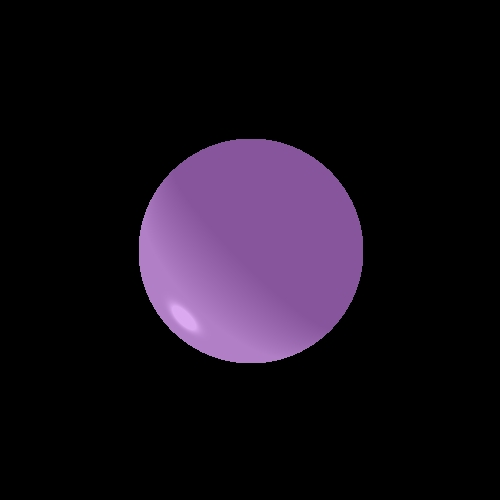
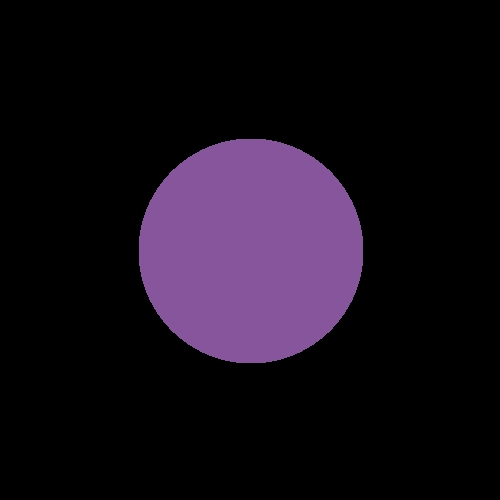
Implemented Shadow Rays and fixed a huge bug where things not directly between a light and the camera wouldn't get lit even if they were supposed to

Changed region(s): [[0.27, 0.39, 0.6, 0.75]]

diff --git a/src/renderer/Render.java b/src/renderer/Render.java
@@ -156,63 +156,62 @@ public class Render {
 		int totalRed = ambientLight.getRed() + emissionLight.getRed();
 		int totalGreen = ambientLight.getGreen() + emissionLight.getGreen();
 		int totalBlue = ambientLight.getBlue() + emissionLight.getBlue();
-//		if(numberOfLights != 0) {
-			
-			//Values to hold the light that's been diffused
-			int diffusedLightRed = 0;
-			int diffusedLightBlue = 0;
-			int diffusedLightGreen = 0;
-			
-			//Values to hold the specular light
-			int specularLightRed = 0;
-			int specularLightBlue = 0;
-			int specularLightGreen = 0;
 
+		//Gets a list of all the lights in the place
+		Iterator<LightSource> lights = _scene.getLightsIterator();
 
-			//Gets a list of all the lights in the place
-			Iterator<LightSource> lights = _scene.getLightsIterator();
+		while(lights.hasNext()) {
+			LightSource light = lights.next();
 
-			while(lights.hasNext()) {
-				LightSource light = lights.next();
+			//Check to make sure the reflected light would actually make it to the camera (It's not on the other side of the Geometry)
+			if(Math.signum(light.getL(point).dotProduct(geometry.getNormal(point))) != Math.signum(new Vector(_scene.getCamera().getP0().subtract(point)).dotProduct(geometry.getNormal(point)))) {
+				//Checks to see if the point would even get hit by the LightSource (ie that it isn't in the shadow of something else)
+				//Creates a new Ray starting at the point in question with a direction opposite the L from the light to the point (going back to the light)
+				Ray rayBackToLight = new Ray(point, new Vector(light.getL(point)).scale(-1).normalize());
+				//Adjusts its source a little bit so a geometry doesn't block itself (sliding it up the vector a little closer to the light)
+				rayBackToLight.setSource(rayBackToLight.getSource().add(rayBackToLight.getDirection().scale(.0000001)));
+				//Checks to see if there's any other geometry along the path
+				Map<Geometry, List<Point3D>> geometriesBlockingLight = getSceneRayIntersections(rayBackToLight);
 
-				//Check to make sure the reflected light would actually make it to the camera (It's not on the other side of the Geometry)
-				if(Math.signum(light.getL(point).dotProduct(geometry.getNormal(point))) == Math.signum(new Vector(_scene.getCamera().getP0().subtract(point)).dotProduct(geometry.getNormal(point)))) {
+				if(geometriesBlockingLight.isEmpty()) {
 					//Calculates the diffused light generated by this light source
-					Color calculatedDiffusedLight = calcDiffuseComp(geometry.getMaterial().getKd(), geometry.getNormal(point).normalize(), light.getL(point).normalize(), light.getIntensity(point));
+					Color calculatedDiffusedLight = calcDiffuseComp(geometry.getMaterial().getKd(), geometry.getNormal(point), light.getL(point), light.getIntensity(point));
 					//Adds the new diffused light to the Color holding all the light so far, but scales it down so as not to go past the bounds of color values
 					totalRed += calculatedDiffusedLight.getRed()/2;
 					totalGreen += calculatedDiffusedLight.getGreen()/2;
 					totalBlue += calculatedDiffusedLight.getBlue()/2;
 
 					//Calculates the diffused light generated by this light source
-					Color calculatedSpecularLight = calcSpecularComp(geometry.getMaterial().getKs(), new Vector(_scene.getCamera().getP0().subtract(point)).normalize(), geometry.getNormal(point).normalize(), light.getL(point).normalize(), geometry.getMaterial().getShininess(), light.getIntensity(point));
+					Color calculatedSpecularLight = calcSpecularComp(geometry.getMaterial().getKs(), new Vector(_scene.getCamera().getP0().subtract(point)), geometry.getNormal(point), light.getL(point), geometry.getMaterial().getShininess(), light.getIntensity(point));
 					//Adds the new diffused light to the Color holding all the light so far, but scales it down so as not to go past the bounds of color values
 					totalRed += calculatedSpecularLight.getRed()/2;
 					totalGreen += calculatedSpecularLight.getGreen()/2;
 					totalBlue += calculatedSpecularLight.getBlue()/2;
+
+//					if(geometry instanceof Sphere) {
+//						print(geometry.getClass() + " Red: " + calculatedSpecularLight.getRed() + " Green: " + calculatedSpecularLight.getGreen() + " Blue: " + calculatedSpecularLight.getBlue());
+//					}
 				}
-
 			}
-			//Finds the color of the components of the light thats been diffused and bounces off specularly
-//			Color diffusedLight = new Color(diffusedLightRed/numberOfLights, diffusedLightBlue/numberOfLights, diffusedLightGreen/numberOfLights);
-//			Color specularLight = new Color(specularLightRed/numberOfLights, specularLightBlue/numberOfLights, specularLightGreen/numberOfLights);
 
-			//Combines them into a new color
-			Color combinedColor = new Color((totalRed/(numberOfLights+2)), (totalGreen/(numberOfLights+2)), (totalBlue/(numberOfLights+2)));
+		}
 
-			return combinedColor;
+		//Combines them into a new color
+		Color combinedColor = new Color((totalRed/(numberOfLights+2)), (totalGreen/(numberOfLights+2)), (totalBlue/(numberOfLights+2)));
+
+		return combinedColor;
 	}
 	
 	// private method to calculate the diffuse light (according to the formula from slides)
 	private Color calcDiffuseComp(Double kd, Vector normal, Vector l, Color intensity) {
-		double factor = kd*(normal.dotProduct(l));
+		double factor = Math.abs(kd*(normal.dotProduct(l)));
 		return scaleColor(intensity, factor);
 	}
 	
 	// private method to calculate the specular light (according to the formula from slides)
 	private Color calcSpecularComp(Double ks, Vector v, Vector normal, Vector l, int shininess, Color intensity) {
 		Vector r = l.subtract(normal.scale(2*l.dotProduct(normal)));
-		double factor = ks*Math.pow(v.normalize().dotProduct(r.normalize()), shininess);
+		double factor = ks*Math.abs(Math.pow(v.normalize().dotProduct(r.normalize()), shininess));
 		return scaleColor(intensity, factor);
 	}
 	
@@ -226,5 +225,9 @@ public class Render {
 		newBlue = (newBlue >= 0 ? newBlue : 0);
 		
 		return new Color(newRed, newGreen, newBlue);
+	}
+
+	public static void print(String s) {
+		System.out.println(s);
 	}
 }

diff --git a/src/unitTests/RenderTests.java b/src/unitTests/RenderTests.java
@@ -60,7 +60,7 @@ public class RenderTests {
 		//Creates a scene to hold our universe
 		Scene scene = new Scene("TestScene", new Color(0, 0, 0), ambientLight, lights, list, camera, 30.0);
 		//Creates an ImageWriter instance to help write down what our camera sees
-		ImageWriter imageWriter = new ImageWriter("RenderTestWithEmissionAndSpotlightRefectoredTest", 500, 500, 100, 100);
+		ImageWriter imageWriter = new ImageWriter("RenderTestWithEmissionAndSpotlightRefectoredTest2", 500, 500, 100, 100);
 		//Creates a Render instance to pull it all together
 		Render render = new Render(scene, imageWriter);
 		
@@ -88,7 +88,7 @@ public class RenderTests {
 		//Sets up an empty list of lights
 		List<LightSource> lights = new ArrayList<LightSource>();
 		//Creates a spotlight to add to our scene
-		SpotLight spotLight = new SpotLight(new Point3D(25,25,-2), new Vector(-1,-1,-1.5), new Color(255,255,255));
+		SpotLight spotLight = new SpotLight(new Point3D(-25,-25,-2), new Vector(-1,-1,-1.5), new Color(255,255,255));
 		lights.add(spotLight);
 		//Creates a scene to hold it all
 		Scene scene = new Scene("SpotLightTestScene", new Color(0,0,0), ambientLight, lights, geoList, camera, 30.0);
@@ -139,15 +139,48 @@ public class RenderTests {
 		AmbientLight ambientLight = new AmbientLight(new Color(255, 255, 255), 1.0);
 		Camera camera = new Camera();
 		List<Geometry> geoList = new ArrayList<Geometry>();
-		Plane floor = new Plane(new Point3D(-1, -4, -1), new Point3D(1, -4, -1), new Point3D(-4, -4, -2), new Material(), new Color(200, 200, 200));
+		Plane floor = new Plane(new Point3D(-10, -3, -1), new Point3D(10, -3, -1), new Point3D(0, -3, -12), new Material(), new Color(200, 200, 200));
 		geoList.add(floor);
-		Sphere ball = new Sphere(1.475, new Point3D(0, 0, -1.5), new Material(), new Color(100, 100, 100));
+//		Triangle floor1 = new Triangle(new Point3D(-1.5, -3, 0), new Point3D(1.5, -3, 0), new Point3D(1.5, -3, 3), new Material(), new Color(200, 200, 200));
+//		geoList.add(floor1);
+//		Triangle floor2 = new Triangle(new Point3D(-1.5, -3, 0), new Point3D(-1.5, -3, 3), new Point3D(1.5, -3, 3), new Material(), new Color(200, 200, 200));
+//		geoList.add(floor2);
+		Sphere ball = new Sphere(1.4985, new Point3D(0, 0, -1.75), new Material(), new Color(100, 100, 100));
 		geoList.add(ball);
 		List<LightSource> lightList = new ArrayList<LightSource>();
-		PointLight pointlgiht = new PointLight(new Point3D(1, -1, 0), 5.0, 5.0, 5.0, new Color(255, 0, 0));
-		lightList.add(pointlgiht);
-		Scene scene = new Scene("Ball on floor test", new Color(30, 30, 30), ambientLight, lightList, geoList, camera, 3.0);
-		ImageWriter imageWriter = new ImageWriter("ballOnTheFloorTest7", 500, 500, 100, 100);
+		PointLight pointlight = new PointLight(new Point3D(-4, 4, -1.75), 0.9, 0.9, 0.9, new Color(255, 0, 0));
+		lightList.add(pointlight);
+		PointLight greenlight = new PointLight(new Point3D(4, 4, -1.75), 0.5, 0.5, 0.5, new Color(0, 255, 0));
+		lightList.add(greenlight);
+		Scene scene = new Scene("Ball on floor test", new Color(30, 30, 30), ambientLight, lightList, geoList, camera, 10.0);
+		ImageWriter imageWriter = new ImageWriter("BallOnTheFloorTest", 1000, 1000, 100, 100);
+		//Creates a Render instance to pull it all together
+		Render render = new Render(scene, imageWriter);
+
+		//Records what the camera sees
+		render.renderImage();
+		//Prints it all to a file
+		imageWriter.writeToImage();
+	}
+	
+	@Test
+	public void floorTest() {
+		AmbientLight ambientLight = new AmbientLight(new Color(255, 255, 255), 1.0);
+		Camera camera = new Camera();
+		List<Geometry> geoList = new ArrayList<Geometry>();
+		Plane floor = new Plane(new Point3D(-10, -3, -1), new Point3D(10, -3, -1), new Point3D(0, -3, -12), new Material(), new Color(200, 200, 200));
+		geoList.add(floor);
+//		Triangle floor1 = new Triangle(new Point3D(-1.5, -3, 0), new Point3D(1.5, -3, 0), new Point3D(1.5, -3, 3), new Material(), new Color(200, 200, 200));
+//		geoList.add(floor1);
+//		Triangle floor2 = new Triangle(new Point3D(-1.5, -3, 0), new Point3D(-1.5, -3, 3), new Point3D(1.5, -3, 3), new Material(), new Color(200, 200, 200));
+//		geoList.add(floor2);
+		List<LightSource> lightList = new ArrayList<LightSource>();
+		PointLight pointlight = new PointLight(new Point3D(-25, 25, -20.0), 0.9, 0.9, 0.9, new Color(255, 0, 0));
+		//lightList.add(pointlight);
+		PointLight greenlight = new PointLight(new Point3D(0, 0, -1), 0.5, 0.5, 0.5, new Color(0, 255, 0));
+		lightList.add(greenlight);
+		Scene scene = new Scene("Floor test", new Color(30, 30, 30), ambientLight, lightList, geoList, camera, 10.0);
+		ImageWriter imageWriter = new ImageWriter("floorTest5", 1000, 1000, 100, 100);
 		//Creates a Render instance to pull it all together
 		Render render = new Render(scene, imageWriter);
 

diff --git a/src/geometries/Sphere.java b/src/geometries/Sphere.java
@@ -86,7 +86,7 @@ public class Sphere extends RadialGeometry{
 		List<Point3D> listToReturn = new ArrayList<>();
 		
 		//l is the vector from the center of the camera to the center of the sphere
-		Vector l = new Vector(_center.subtract(new Point3D(0,0,0)));
+		Vector l = new Vector(_center.subtract(r.getSource()));
 		
 		//tM is the length of the base of a right triangle made by extending the Ray to the middle of the Sphere, where l is the hypotenuse
 		double tM = l.dotProduct(r.getDirection().normalize());

diff --git a/src/elements/PointLight.java b/src/elements/PointLight.java
@@ -172,7 +172,7 @@ public class PointLight extends Light implements LightSource{
 
 	//Return the vector that a photon coming from this PointLight would travel along to intersect the given Point
 	public Vector getL(Point3D point) {
-		return new Vector(point.subtract(_position)).normalize();
+		return new Vector(point.subtract(_position));
 	}
 
 	//A method to scale colors which makes sure values never go over 255 or below 0

diff --git a/src/primitives/Material.java b/src/primitives/Material.java
@@ -16,7 +16,7 @@ public class Material {
 		//Sets _kD, _kS, and _nShininess to arbitrary values that seem to work
 		_kD = 0.8;
 		_kS = 0.99;
-		_nShininess = 50;
+		_nShininess = 5;
 	}
 	
 	//Parameterized constructor
